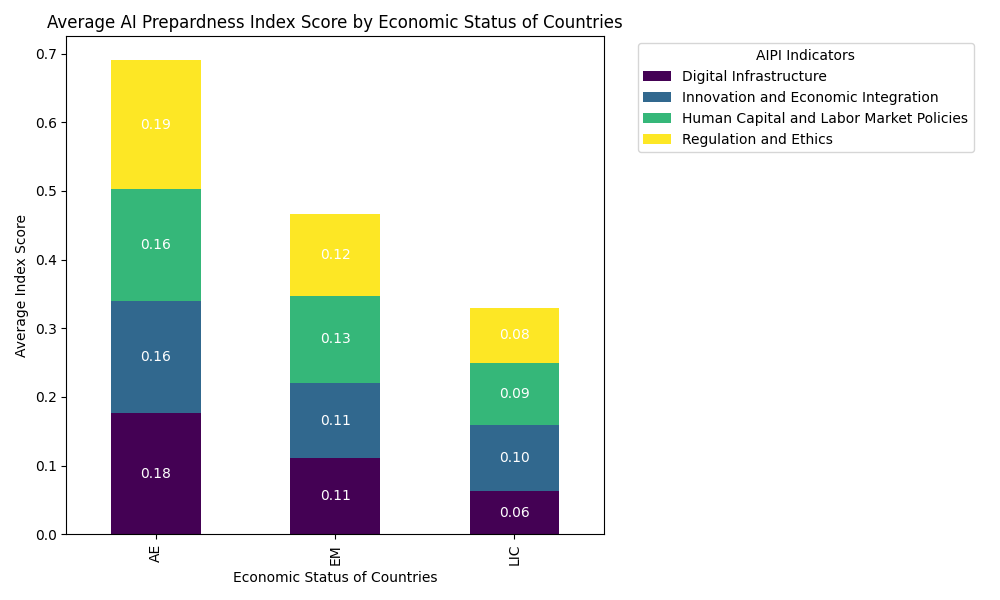
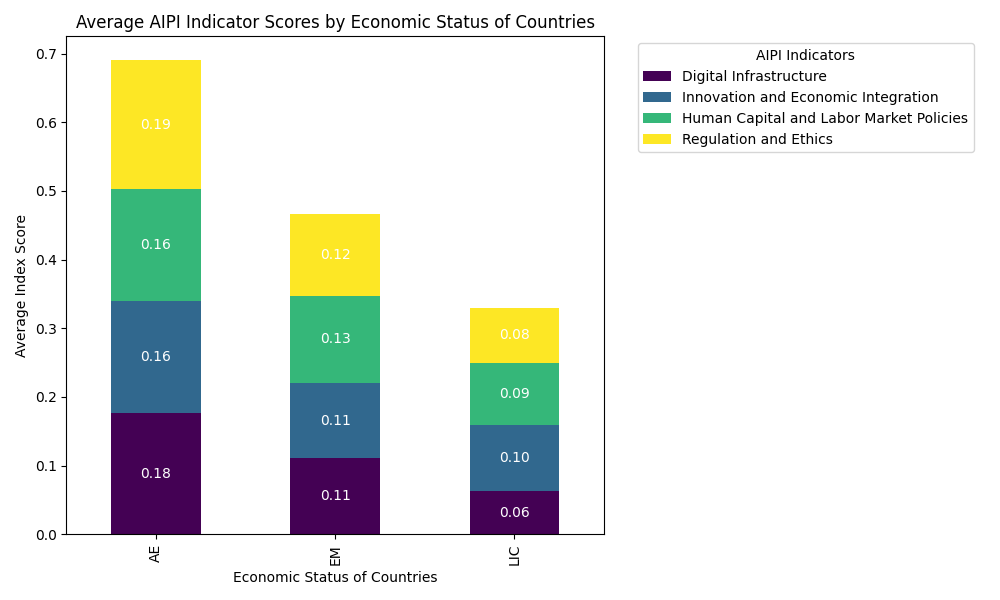
Create Radar Chart and Box Plot

Changed region(s): [[0.031, 0.03, 0.62, 0.06]]

diff --git a/main_analysis.py b/main_analysis.py
@@ -33,7 +33,7 @@ for container in ax.containers: # Loop through the containers of the bars
             ax.text(x, y, label, ha='center', va='center', fontsize=10, color='white')
 
 # Add title and labels
-plt.title('Average AI Prepardness Index Score by Economic Status of Countries', fontsize=12)
+plt.title('Average AIPI Indicator Scores by Economic Status of Countries', fontsize=12)
 plt.xlabel('Economic Status of Countries', fontsize=10)
 plt.ylabel('Average Index Score', fontsize=10)
 
@@ -44,4 +44,67 @@ plt.legend(title='AIPI Indicators', bbox_to_anchor=(1.05, 1), loc='upper left')
 plt.tight_layout()
 
 plt.savefig('aipi_stacked_bar_chart.png')
+plt.show()
+
+# Create the boxplot 
+plt.figure(figsize=(10, 6))
+ai_df.boxplot(by='type', column=['AIPI'], grid=False, showmeans=False, patch_artist=True)
+
+# Add faint dotted lines
+plt.grid(color='gray', linestyle=':', linewidth=0.5, alpha=0.5)
+
+plt.title('Distribution of AI preparedness Index (AIPI) Scores by Economic Status', fontsize=12)
+plt.suptitle('')  # Remove default Pandas boxplot title
+plt.xlabel('Economic Status of Countries', fontsize=10)
+plt.ylabel('AI Preparedness Index (AIPI)', fontsize=10)
+plt.xticks(fontsize=10)
+plt.yticks(fontsize=10)
+
+# Save and display the plot
+plt.tight_layout()
+plt.savefig('aipi_boxplot.png', bbox_inches='tight', pad_inches=0.5)
+plt.show()
+
+# Prepare the data
+economic_status = ['AE', 'EM', 'LIC']
+indicators = ['Digital Infrastructure', 'Innovation and Economic Integration', 
+              'Human Capital and Labor Market Policies', 'Regulation and Ethics']
+
+# Filter data by economic status and get mean values of the 4 indicators
+grouped_data = ai_df.groupby('type')[indicators].mean().loc[economic_status]
+
+# Prepare Radar Chart
+# Define the number of variables (indicators)
+num_vars = len(indicators)
+
+# Compute angle for each axis
+angles = np.linspace(0, 2 * np.pi, num_vars, endpoint=False).tolist()
+
+# Close the circle making sure to repeat the first value
+angles += angles[:1]
+
+# Create the radar chart
+fig, ax = plt.subplots(figsize=(8, 8), dpi=150, subplot_kw=dict(polar=True))
+
+# Plot each economic group
+for status in economic_status:
+    values = grouped_data.loc[status].tolist()
+    values += values[:1]  # Close the circle
+    ax.plot(angles, values, label=status, linewidth=2, linestyle='solid')
+    ax.fill(angles, values, alpha=0.25)  # Fill area under the line
+
+
+# Set the labels for each axis
+ax.set_yticklabels([])
+ax.set_xticks(angles[:-1])
+ax.set_xticklabels(indicators, fontsize=12)
+
+
+# Set the title and legend
+ax.set_title('AI Preparedness Across Economic Status by Indicator', fontsize=14, color='black', fontweight='bold', pad=30)
+plt.legend(title='Economic Status', loc='upper right', bbox_to_anchor=(1.2, 1))
+
+# Show the plot
+plt.tight_layout()
+plt.savefig('aipi_radar_chart.png', bbox_inches='tight')
 plt.show()
